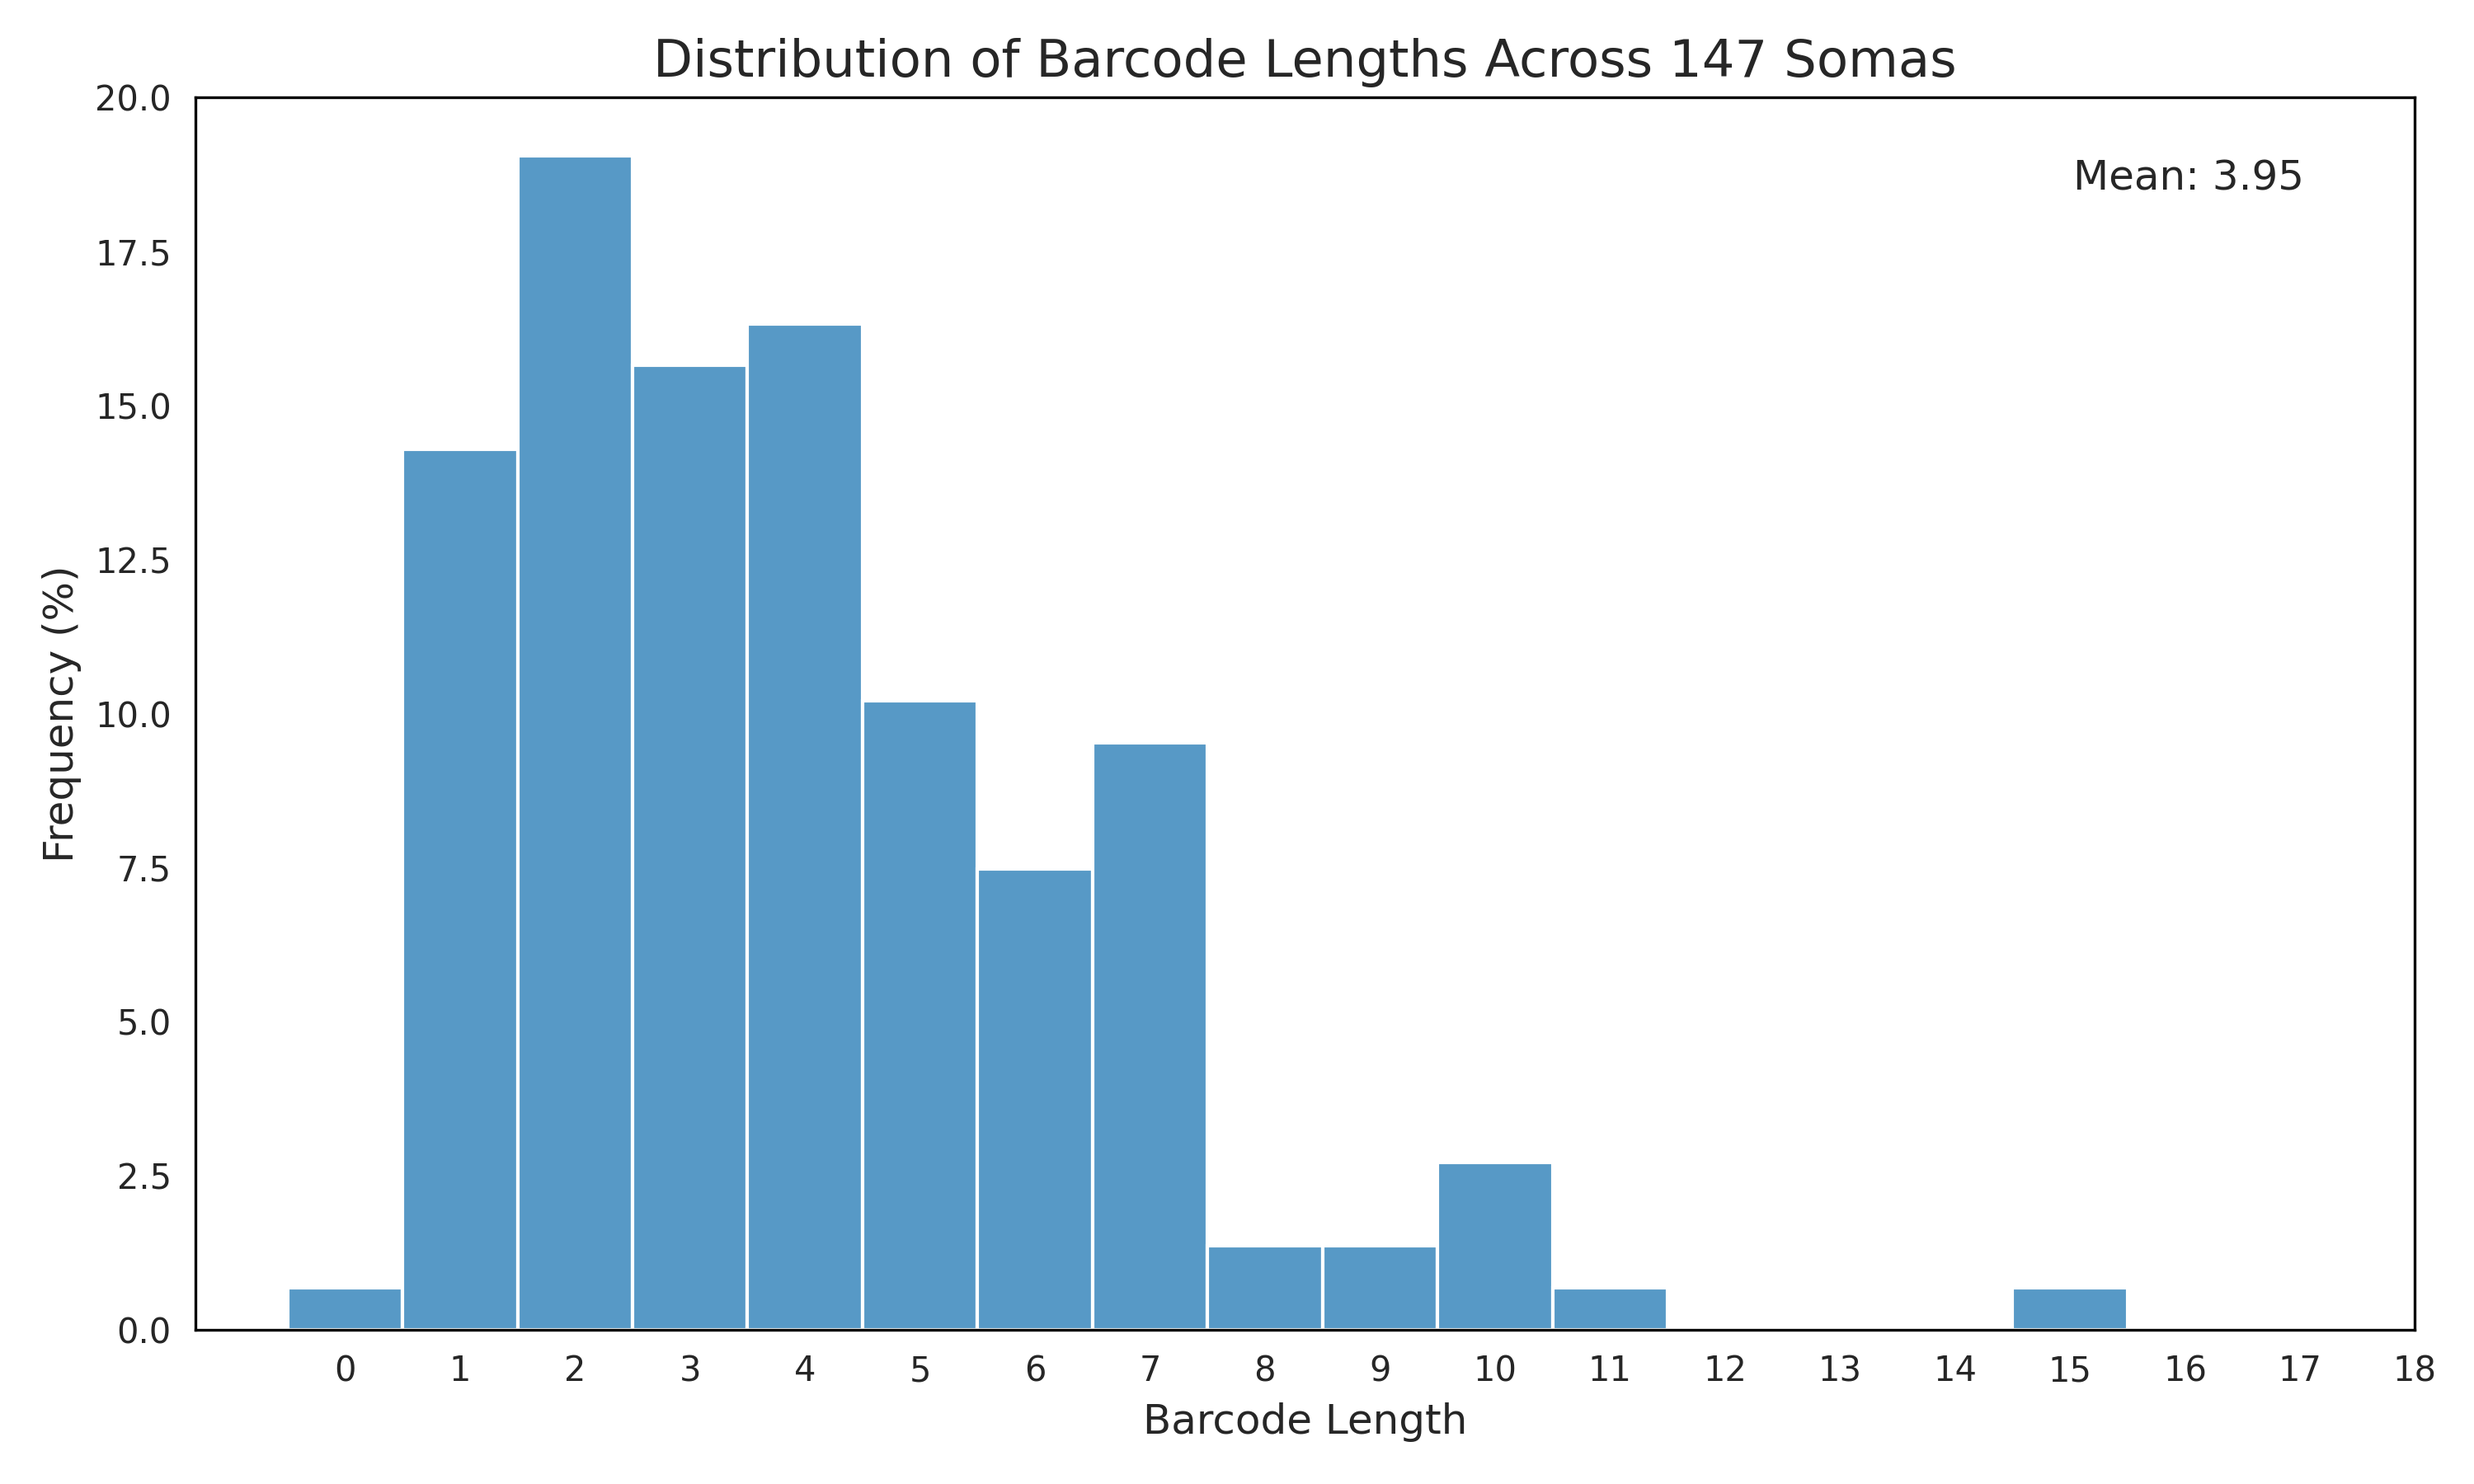
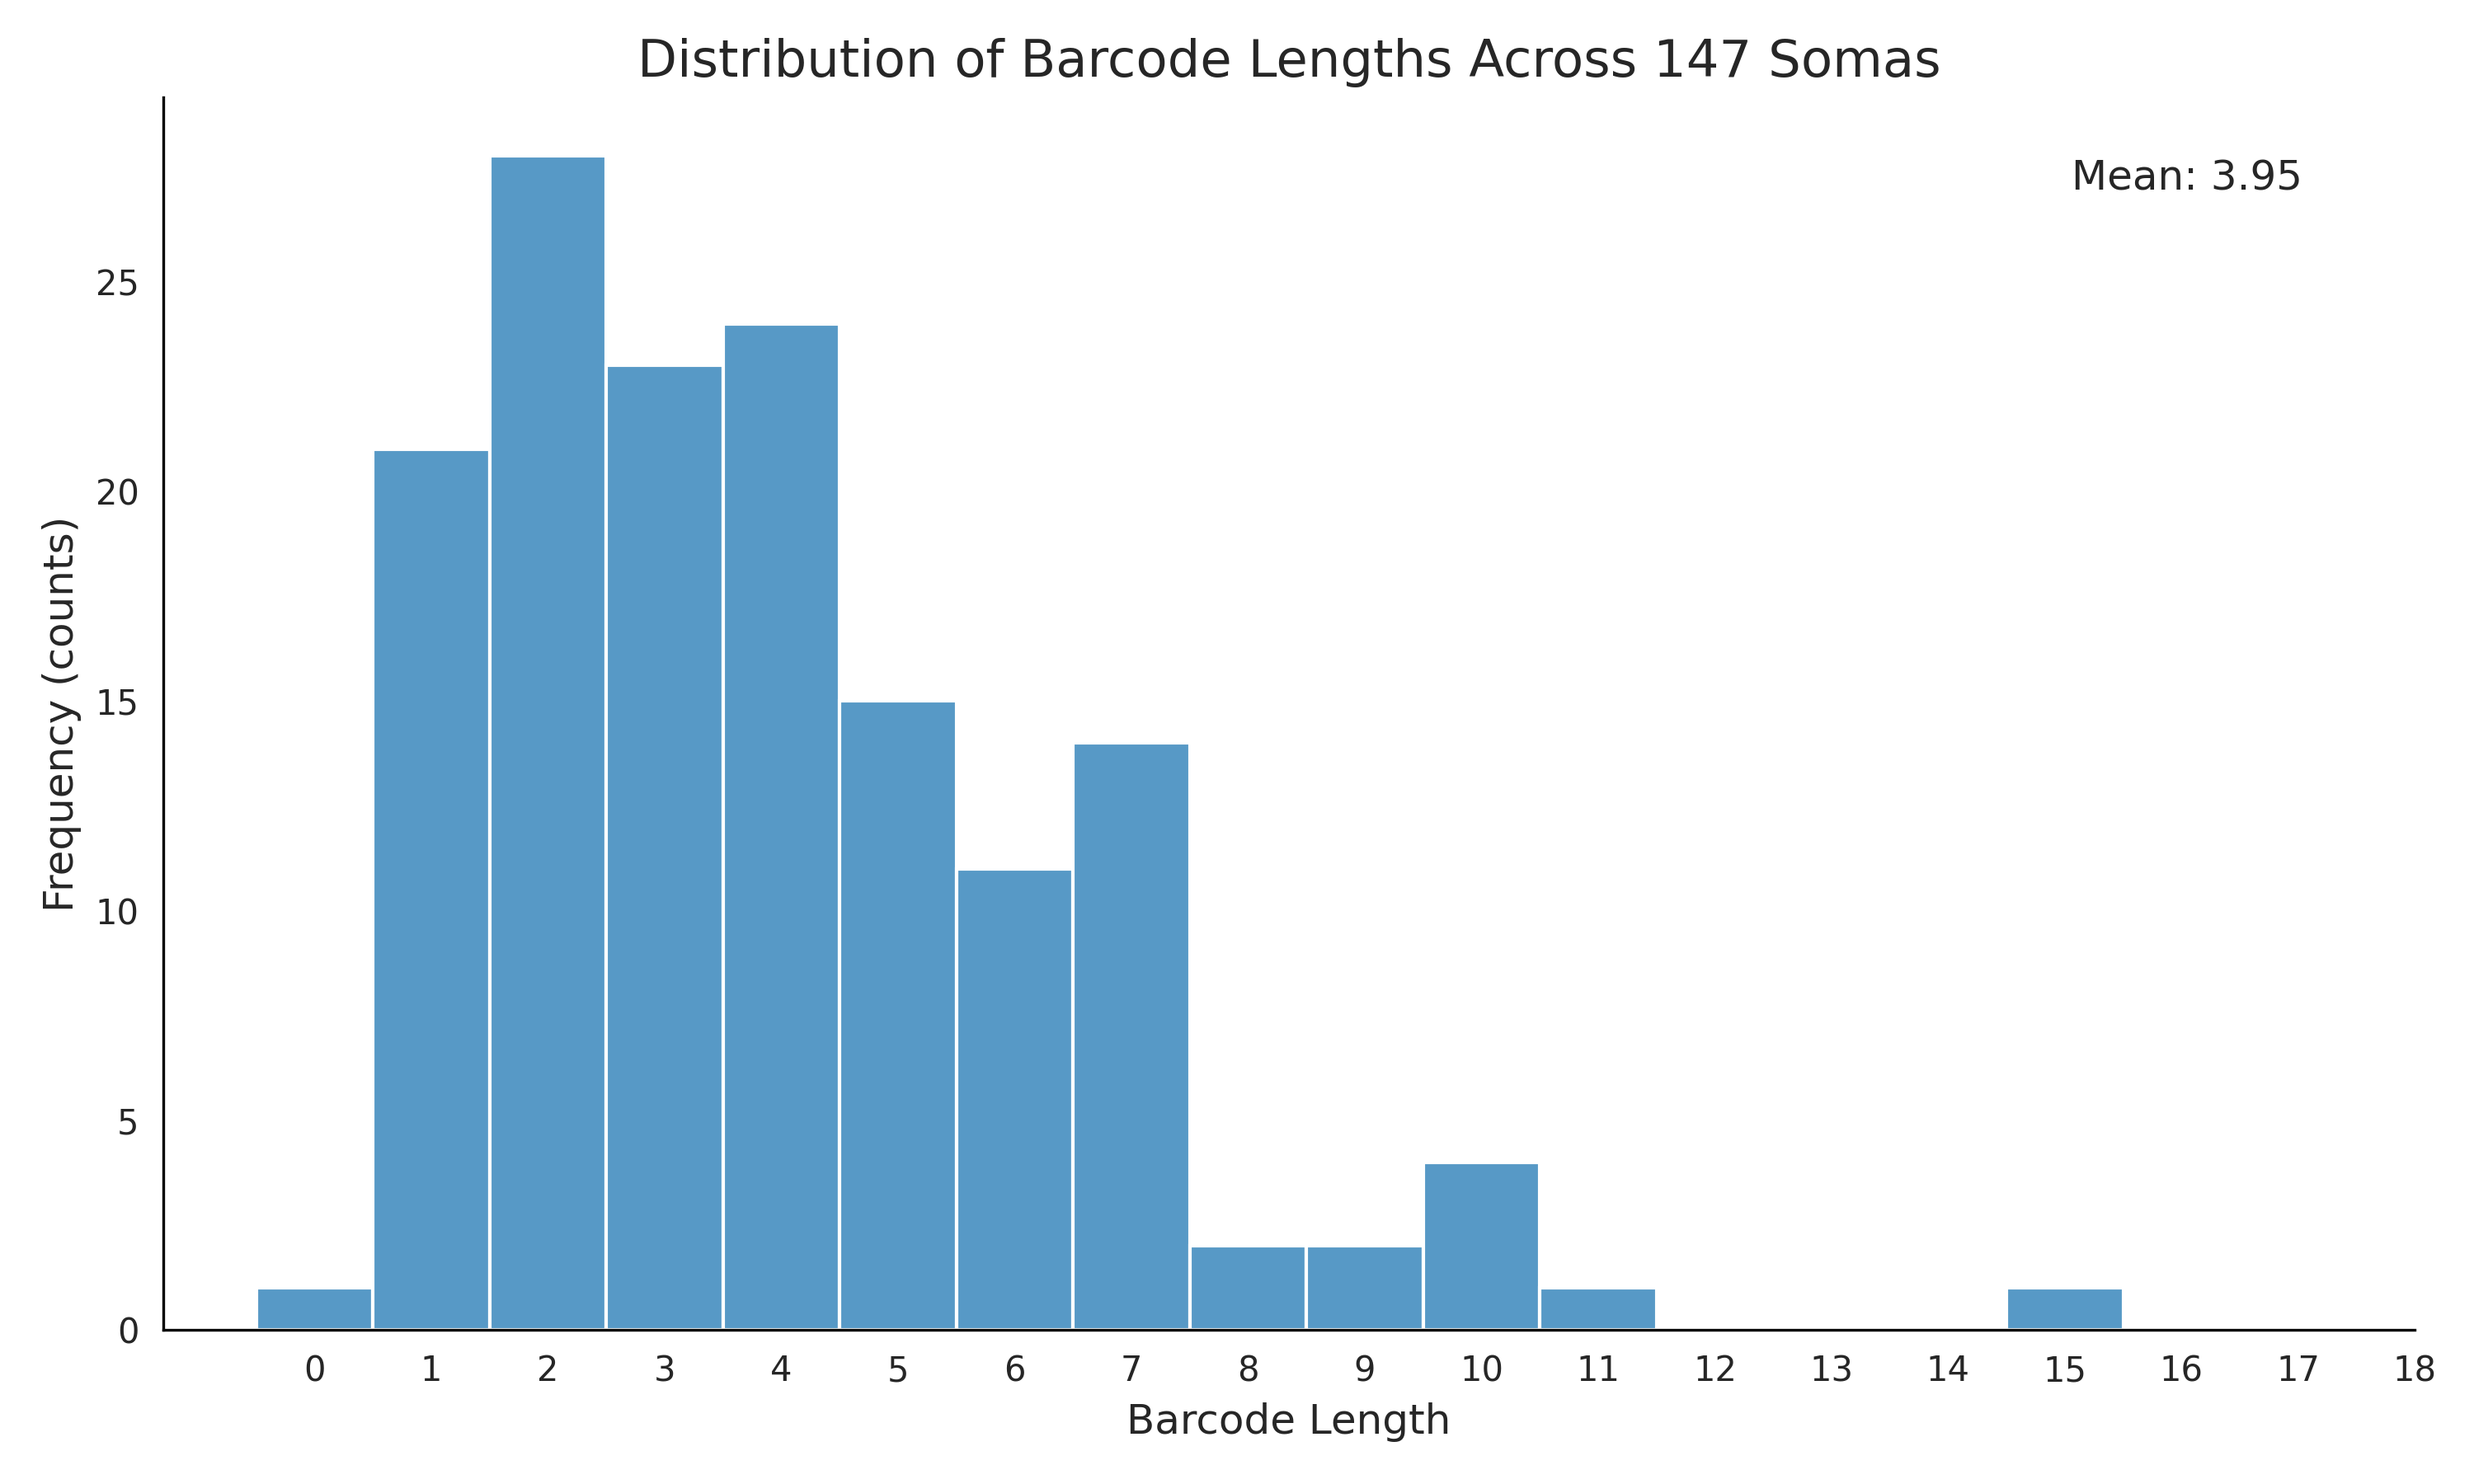
continuing with plot scripts

diff --git a/Plotting-scripts/barcode-distribution.py b/Plotting-scripts/barcode-distribution.py
@@ -25,13 +25,17 @@ barcode_lengths = np.sum(soma_barcodes, axis=1)
 
 plt.figure(figsize=FIG_SIZE)
 
-ax = sns.histplot(barcode_lengths, kde=False, bins=range(19), discrete=True, color=MAIN_COLOR, stat='percent')
+ax = sns.histplot(barcode_lengths, kde=False, bins=range(19), discrete=True, color=MAIN_COLOR)
 
-ax.grid(False) # turning off the grid
+
+# sns.despine(left=True, bottom=True)
+ax.grid(False)
+sns.despine()
+.
 
 # Add labels and title
 plt.xlabel('Barcode Length')
-plt.ylabel('Frequency (%)')
+plt.ylabel('Frequency (counts)')
 plt.title(f'Distribution of Barcode Lengths Across {len(barcode_lengths)} Somas')
 
 # Set x-axis ticks to include all possible barcode lengths (0 to 18)
@@ -58,7 +62,7 @@ output_dir = "/home/aashir/repos/barcode_analysis/Preprint-Barcode-Analysis/Plot
 timestamp = pd.Timestamp.now().strftime("%Y%m%d_%H%M%S")
 plot_filename = f"{output_dir}/somas_barcode_length_distr.png"
 plt.tight_layout()
-plt.savefig(plot_filename, dpi=300)
+plt.savefig(plot_filename, dpi=500)
 plt.close()
 
 # Also print basic statistics

diff --git a/Plotting-scripts/plot_settings.py b/Plotting-scripts/plot_settings.py
@@ -1,10 +1,3 @@
-"""
-plot_settings.py
-
-This file contains standardized plotting settings to ensure consistency across
-all barcode analysis visualizations.
-"""
-
 import matplotlib.pyplot as plt
 import matplotlib as mpl
 import seaborn as sns

diff --git a/Plotting-scripts/Output/somas_barcode_length_distr.md b/Plotting-scripts/Output/somas_barcode_length_distr.md
@@ -1,6 +1,6 @@
 # Barcode Length Distribution Analysis
 
-**Date:** 2025-03-28 23:56:45
+**Date:** 2025-03-29 00:06:09
 
 ## Description
 This analysis shows the distribution of barcode lengths (number of positive markers) across 147 soma cells.
